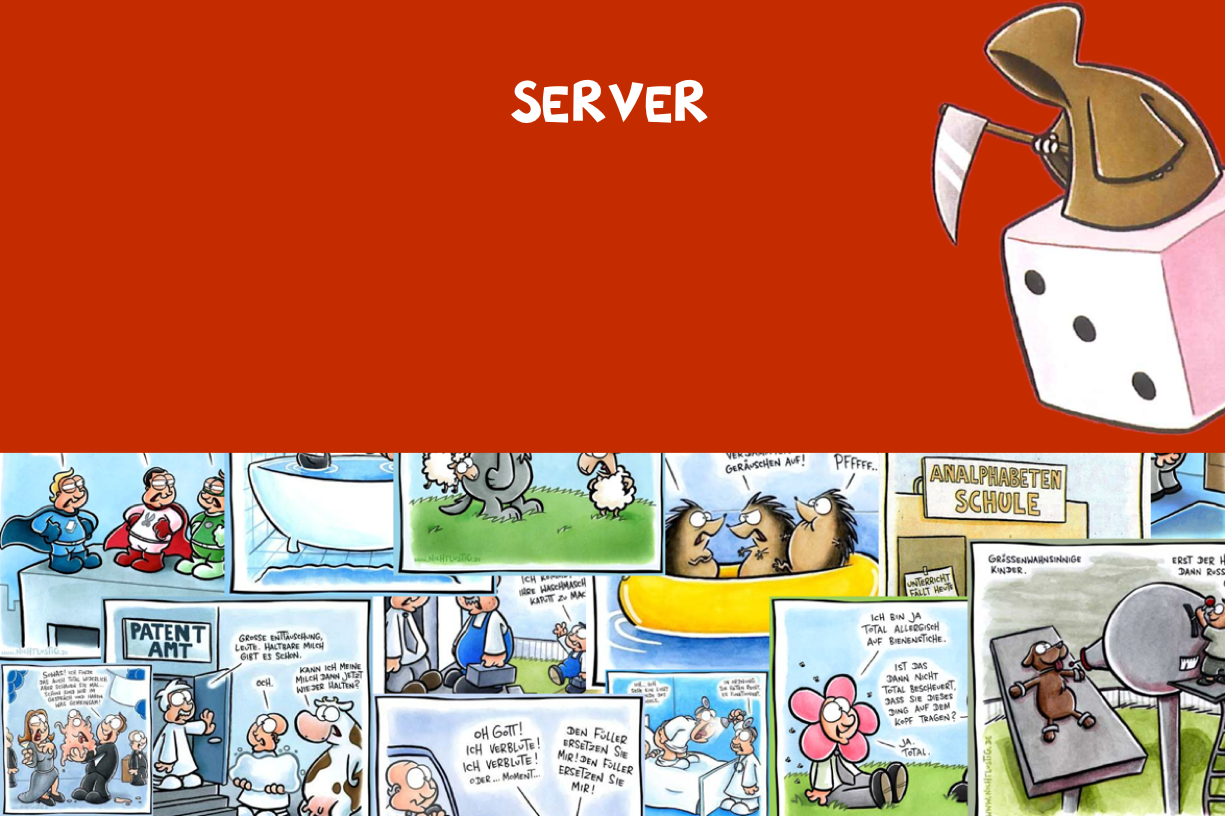
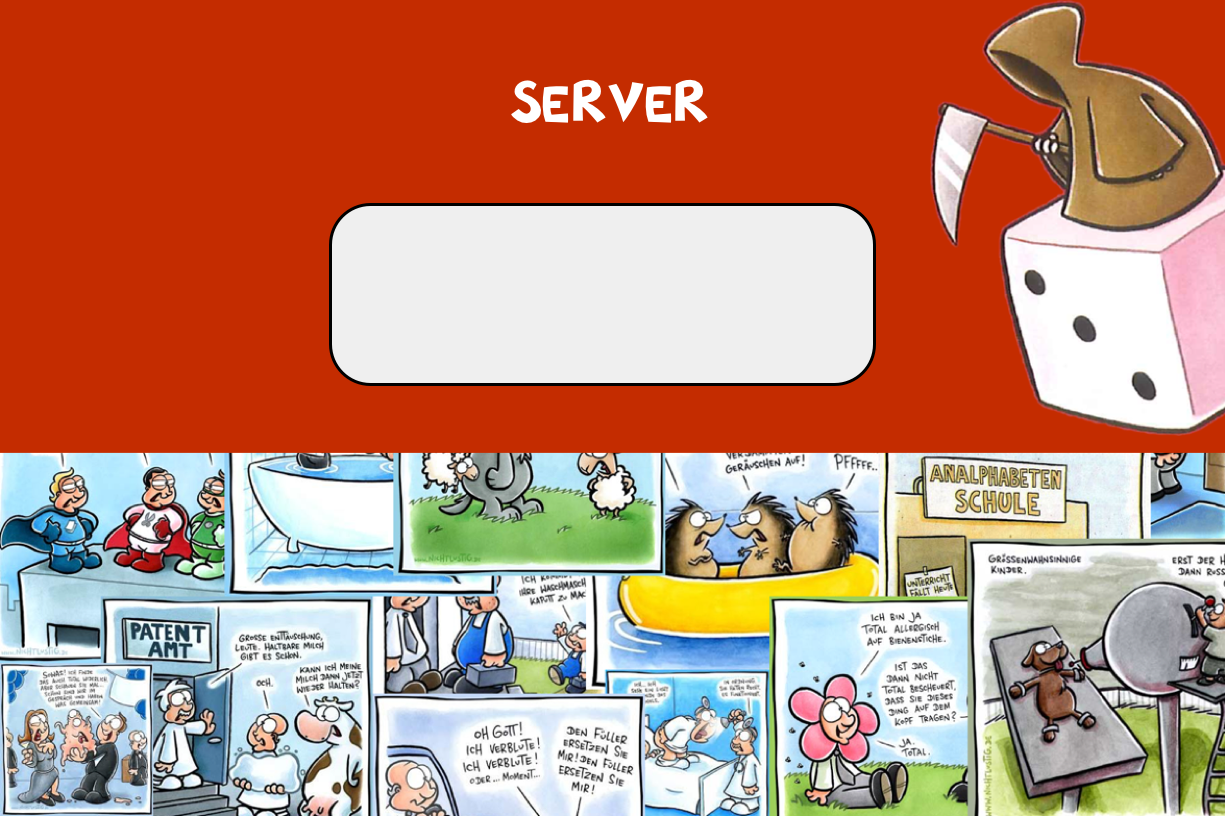
updated server background added client buttons added lobby background

Changed region(s): [[0.2482, 0.2451, 0.7135, 0.4902]]

diff --git a/src/client/ClientView.java b/src/client/ClientView.java
@@ -106,7 +106,7 @@ public class ClientView {
 		
 		
 		primaryStage.setTitle("Client-Applikation");
-		primaryStage.setScene(scene);
+		primaryStage.setScene(scene1);
 		primaryStage.setResizable(false);
 	}
 	
